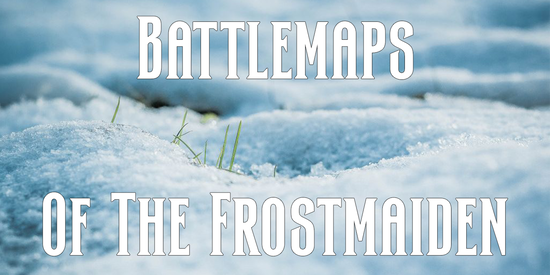
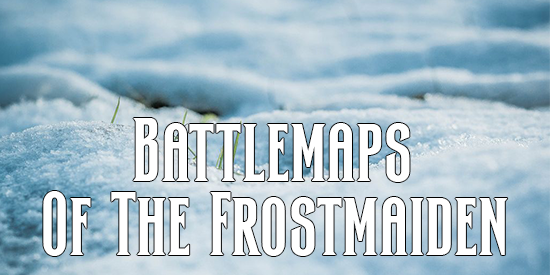
- added references to the Wizards of the Coast's Fan Content Policy for approval in the Foundry Module Store - updated compatibility for Foundry 14 Build 368 - updated cover image for the module

Changed region(s): [[0.0618, 0.4073, 0.9273, 0.9309], [0.2473, 0.0291, 0.7727, 0.2909], [0.2782, 0.3782, 0.3091, 0.4073]]

diff --git a/README.MD b/README.MD
@@ -57,4 +57,5 @@ You can expect the following structure for releases:
 - Compatibility with Foundry is updated
 
 ## Acknowledgements
-- Additional Tiles and Graphics for Doors courtesy of **Forgotten Adventures** under the **Fan-Content License**
+- Released under [Wizards of the Coast's Fan Content Policy](https://company.wizards.com/en/legal/fancontentpolicy)
+- Additional Tiles and Graphics under [Forgotten Adventures' Fan-Content License](https://www.forgotten-adventures.net/info/)
